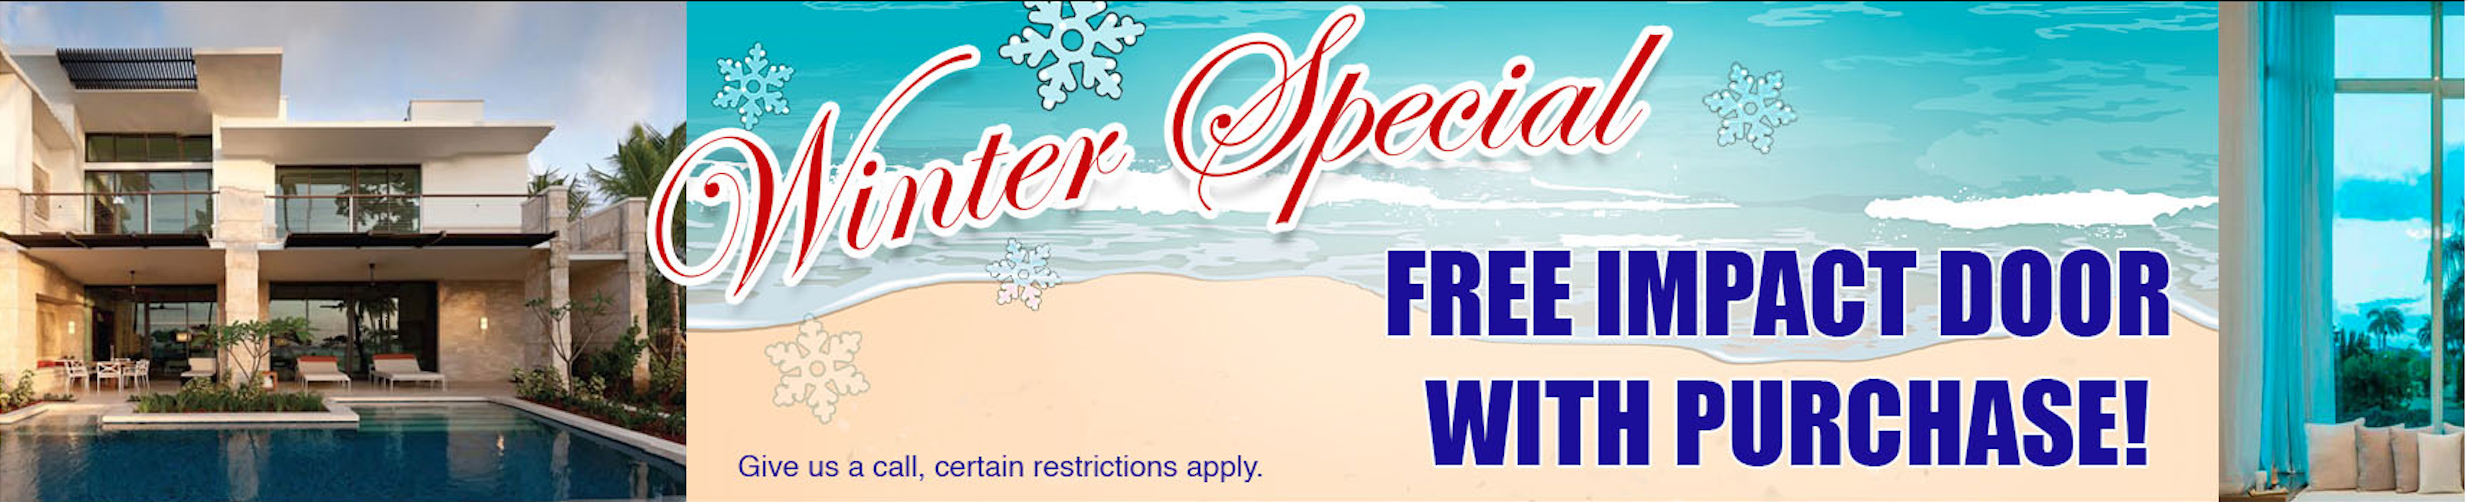
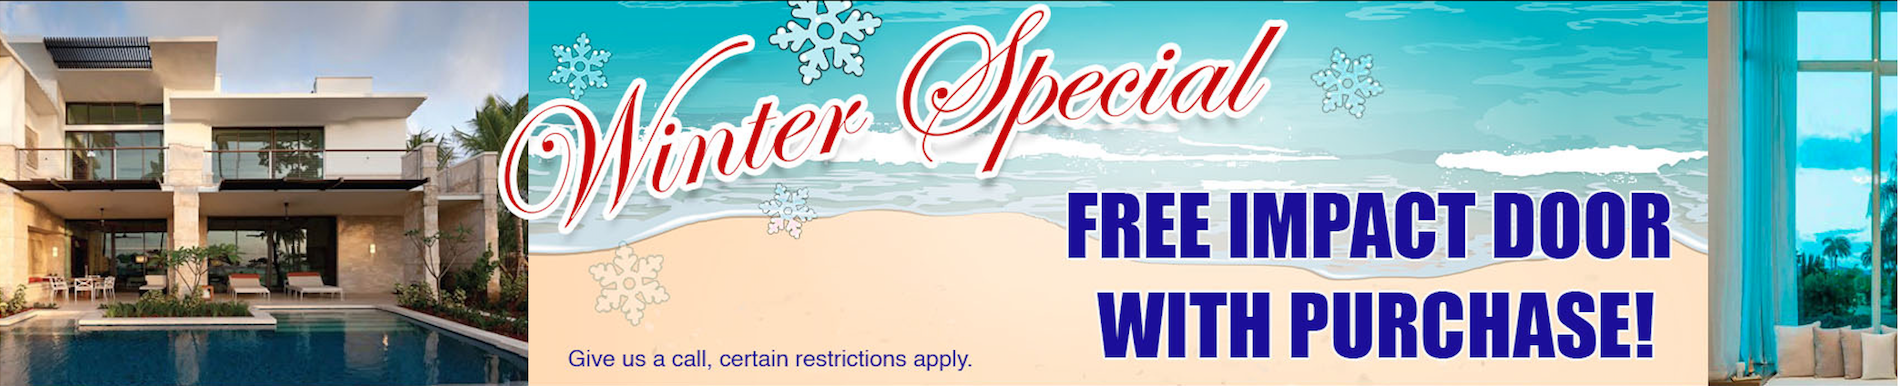
sliding

diff --git a/index.html b/index.html
@@ -117,7 +117,7 @@
     </ol>
     <div class="carousel-inner" role="listbox">
       <!-- Slide One - Set the background image for this slide in the line below -->
-      <div class="carousel-item active" style="background-image: url('./assets/img/Promo1.png')" ALIGN="CENTER">
+      <div class="carousel-item active" style="background-image: url('./assets/img/Promo1New.png')" ALIGN="CENTER">
        <!-- <div class="carousel-caption d-none d-md-block">
           <h3 class="responsive">Exceptional Services You Can Trust</h3>
           <p class="responsive">We offer expert-level quality assessments and provide the most optimal solutions to save you time and money.</p>
@@ -125,7 +125,7 @@
       -->
       </div>
       <!-- Slide Two - Set the background image for this slide in the line below -->
-      <div class="carousel-item" style="background-image: url('./assets/img/Promo1.png')" ALIGN="CENTER">
+      <div class="carousel-item" style="background-image: url('./assets/img/Promo2New.png')" ALIGN="CENTER">
       <!--  <div class="carousel-caption d-none d-md-block">
           <h3>Safety and Comfort You Desire</h3>
           <p>Our glass materials are thoroughly tested under all circumstances to ensure total consumer safety.</p>

diff --git a/assets/css/style.css b/assets/css/style.css
@@ -77,10 +77,10 @@ h6 {
 }
 
 .carousel-item {
-  height: 40vh;
+  height: 39vh;
   min-width: auto;
   text-align: center;
-  margin-top: 5.5rem;
+  margin-top: 5.2rem;
   justify-content: center;
   background-color: #fff;
   -webkit-background-size: cover;
